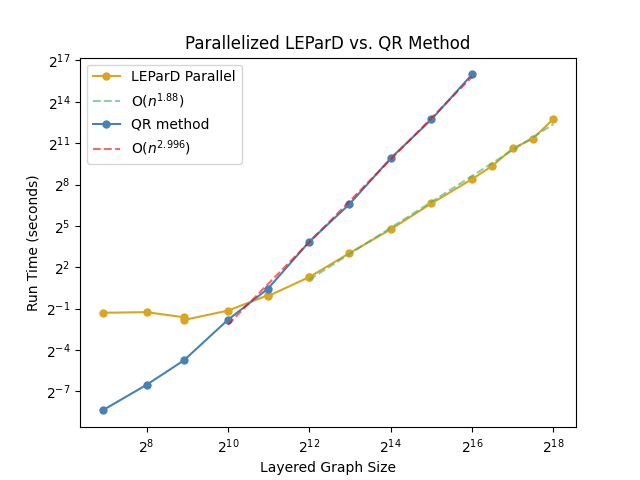
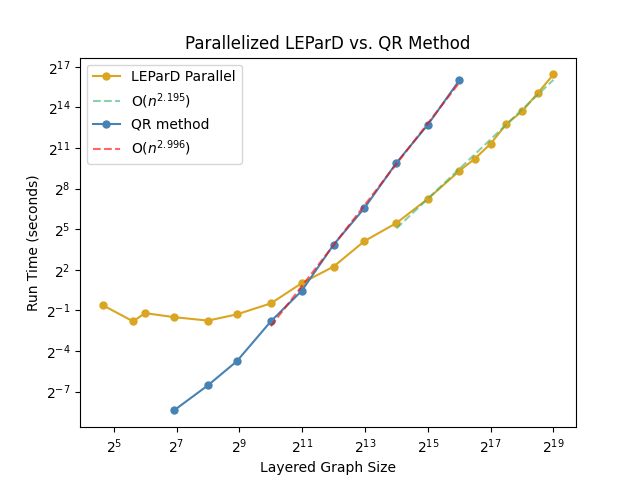
supercomputer stuff

diff --git a/Slurm/bertha_slurm.py b/Slurm/bertha_slurm.py
@@ -1,10 +1,10 @@
 #!/usr/bin/env python3
 #SBATCH --job-name=build_bertha
-#SBATCH --time=10:00:00   # walltime
+#SBATCH --time=3-00:00:00   # walltime
 #SBATCH --nodes=1
-#SBATCH --mem-per-cpu=256G
+#SBATCH --mem-per-cpu=1024G
 #SBATCH --tasks-per-node=1
-#SBATCH --array=1-2
+#SBATCH --array=1-4
 #SBATCH --qos=normal
 
 #import ep_utils
@@ -13,13 +13,25 @@ sys.path.append("/home/jrhmc1/Desktop/EquitablePartitions/src/")
 import graphs
 import networkx as nx
 import numpy as np
+from matplotlib import pyplot as plt
+import ep_utils as epu
 
 def birthBertha(size_id):
-    sizes = np.array([2**i for i in range(19,21)])#[2**i for i in range(17,19)])
+    sizes = np.array([2**i for i in [18.5,19,19.5,20]])#range(19,20)])
     sizes = np.floor(np.sqrt(sizes))**2
     sizes = sizes.astype(int)
-    bertha = graphs.GenBertha(sizes[size_id])
+    
+    print(f"building Bertha of size {sizes[size_id]}")
+    bertha = graphs.GenBerthaSparse(sizes[size_id],parallel=True)
+    #bertha = graphs.GenBertha(sizes[size_id])
+    bertha = nx.from_scipy_sparse_array(bertha)
+    # code to check ep, lep struture and look at graph
+    #ep,lep=epu.getEquitablePartitions(bertha)
+    #print(ep,lep)
+    #nx.draw(bertha)
+    #plt.savefig('/home/jrhmc1/Desktop/EquitablePartitions/Networks/bertha_check.png')
     nx.write_graphml(bertha,f"/home/jrhmc1/Desktop/EquitablePartitions/Networks/bertha_{sizes[size_id]}.graphml")
+    print("Finished.")
 
 
 if __name__ == "__main__":

diff --git a/Slurm/_LEP_slurm.py b/Slurm/_LEP_slurm.py
@@ -1,11 +1,11 @@
 #!/usr/bin/env python3
-#SBATCH --job-name=bertha_262144_LEPs
+#SBATCH --job-name=bertha_524176_LEPs
 #SBATCH --time=3-00:00:00   # walltime
 #SBATCH --ntasks=1
 #SBATCH --nodes=1
-#SBATCH --mem-per-cpu=256G
+#SBATCH --mem-per-cpu=1024G
 #SBATCH --qos=normal
-#SBATCH --array=1-30
+#SBATCH --array=1-26
 
 
 import os, sys, json

diff --git a/Slurm/time_slurm.py b/Slurm/time_slurm.py
@@ -1,9 +1,9 @@
 #!/usr/bin/env python3
-#SBATCH --job-name=bertha_65536slurm
+#SBATCH --job-name=bertha_369664slurm
 #SBATCH --time=3-00:00:00   # walltime
 ##SBATCH --ntasks-per-node=1
 ##SBATCH --nodes=1
-#SBATCH --mem-per-cpu=256G
+#SBATCH --mem-per-cpu=1024G
 #SBATCH --tasks-per-node=1
 #SBATCH --qos=normal
 
